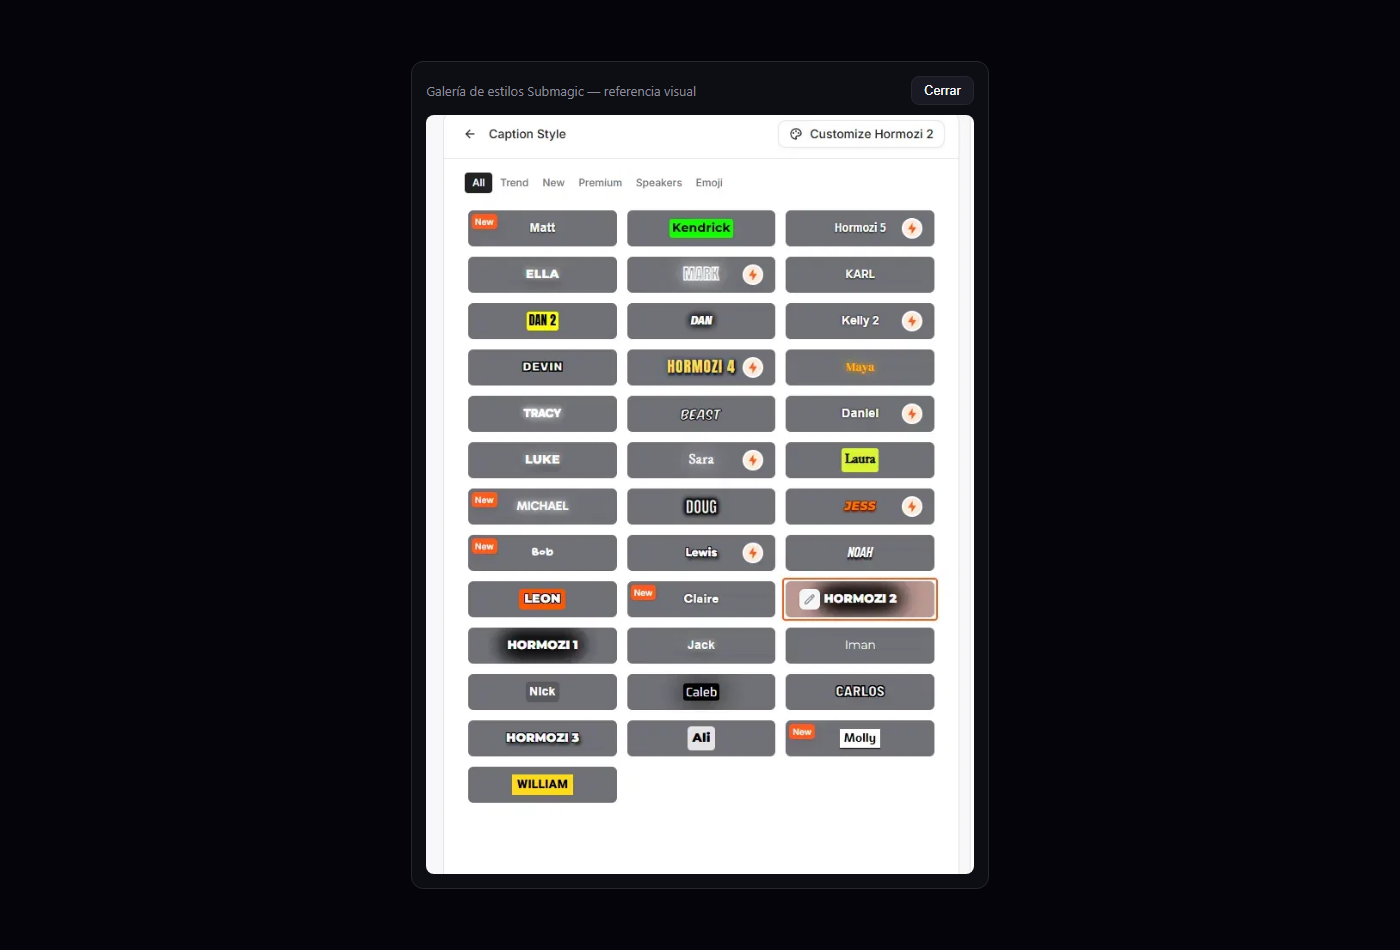
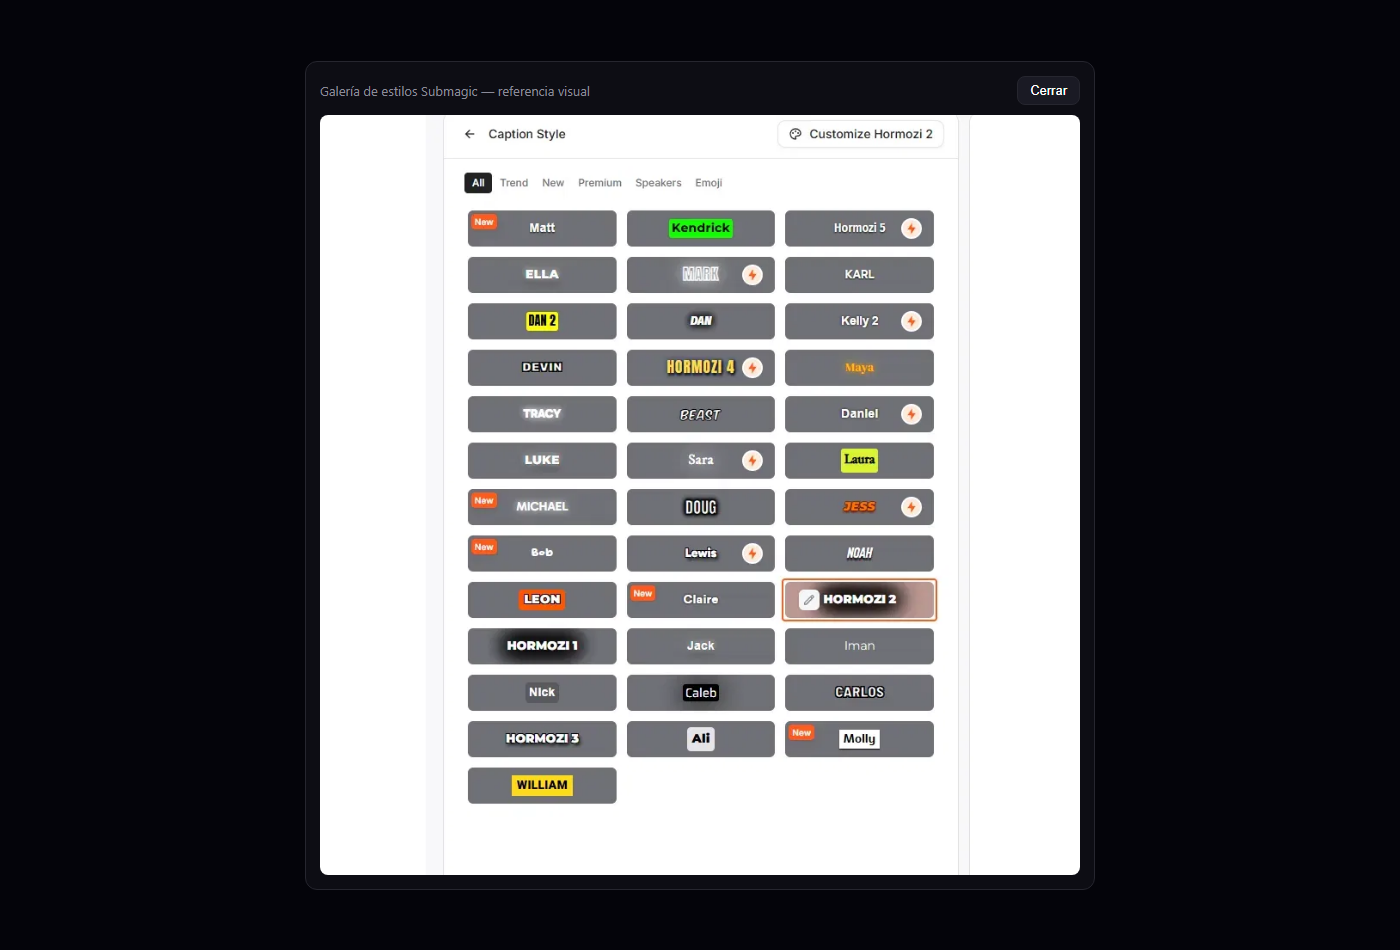
fix: encoding utf-8 y galeria png
static/index.html se corrompio por una edicion manual con PowerShell
(Set-Content -Encoding utf8): doble-encoding UTF-8 + BOM -> mojibake en
todos los acentos y emojis. Causa raiz: bytes del archivo, no el charset
del servidor (GET / ya enviaba text/html; charset=utf-8 y el HTML tiene
<meta charset>). Se restauraron los bytes limpios desde el commit previo
(sin BOM, 0 mojibake) reaplicando solo el cambio de galeria.

app.py: el root FileResponse declara media_type text/html; charset=utf-8
explicito como defensa-en-profundidad (el navegador nunca interpreta Latin-1).

Galeria de estilos: SUBMAGIC_GALERIA_URL -> /static/previews/galeria.png
(el .webp se descargaba en vez de mostrarse); se trackea galeria.png y se
remueve galeria.webp.

Verificado: home con acentos correctos y popup mostrando galeria.png
(revision/submagic-s1/ui_home_acentos.png, ui_galeria_popup.png).
check.bat verde (384 tests).

diff --git a/static/index.html b/static/index.html
@@ -1873,9 +1873,9 @@ async function loadSubmagicVideos() {
   checkGaleria();
 }
 
-// Galeria de estilos: imagen de referencia (galeria.webp) provista por K. Si no
+// Galeria de estilos: imagen de referencia (galeria.png) provista por K. Si no
 // existe, se oculta el boton sin romper. Solo referencia visual: no toca la API.
-const SUBMAGIC_GALERIA_URL = '/static/previews/galeria.webp';
+const SUBMAGIC_GALERIA_URL = '/static/previews/galeria.png';
 
 async function checkGaleria() {
   const btn = document.getElementById('submagic-galeria-btn');

diff --git a/app.py b/app.py
@@ -49,7 +49,9 @@ app.mount("/thumbs", StaticFiles(directory=str(THUMBS_DIR)), name="thumbs")
 
 @app.get("/")
 def root():
-    return FileResponse(str(STATIC_DIR / "index.html"))
+    # charset explicito: el navegador nunca debe interpretar la UI en Latin-1
+    # (evita mojibake en acentos/emojis aunque falte el <meta charset>).
+    return FileResponse(str(STATIC_DIR / "index.html"), media_type="text/html; charset=utf-8")
 
 
 app.mount("/static", StaticFiles(directory=str(STATIC_DIR)), name="static")